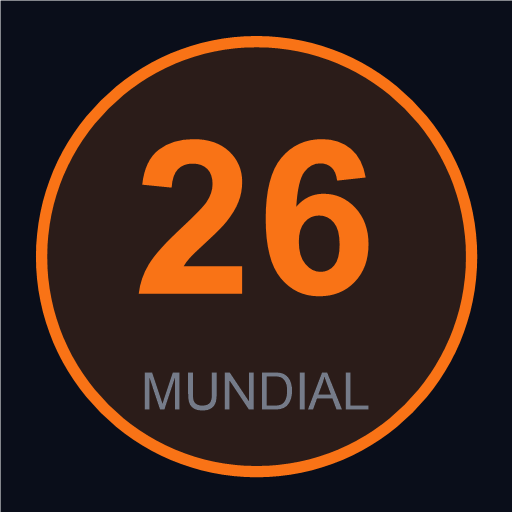
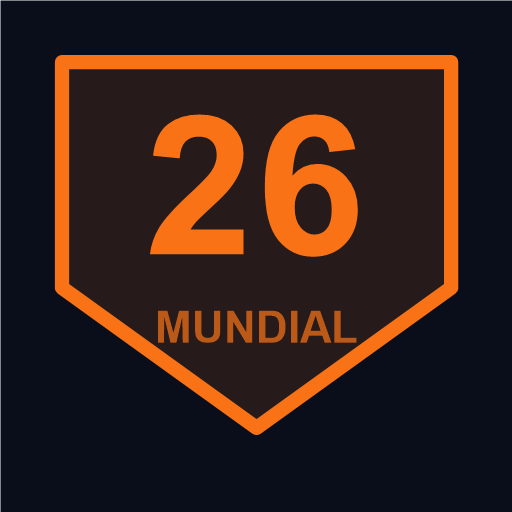
Rediseño intercambio + íconos escudo naranja

diff --git a/index.html b/index.html
@@ -2709,67 +2709,88 @@ function intCalcular() {
   const itemsRec   = intParseLista(txtRec);
   const resDamos = intResumenLista(itemsDamos);
   const resRec   = intResumenLista(itemsRec);
+  const totalDamos = itemsDamos.reduce((s,i)=>s+i.qty, 0);
+  const totalRec   = itemsRec.reduce((s,i)=>s+i.qty, 0);
+  const diff0 = resRec.total - resDamos.total;
+  const col0  = diff0 >= 0 ? '#34d399' : '#f87171';
+  const sign0 = diff0 >= 0 ? '+' : '';
 
-  const dineroMonto = parseFloat((document.getElementById('int-dinero-monto') || {}).value) || 0;
-  const dineroDirEl = document.getElementById('int-dinero-dir');
-  const dineroDir   = dineroDirEl ? dineroDirEl.value : 'recibimos';
-
-  let valorDamos = resDamos.total;
-  let valorRec   = resRec.total;
-  if (dineroMonto > 0) {
-    if (dineroDir === 'recibimos') valorRec += dineroMonto;
-    else valorDamos += dineroMonto;
-  }
-
-  const diff = valorRec - valorDamos;
-
-  const mkList = (items, resum) => {
-    if (!items.length) return '<p style="color:#64748b;font-size:0.85em">Lista vacía</p>';
-    let html = '<ul style="margin:4px 0;padding-left:18px;font-size:0.85em">';
-    for (const {col, ri, qty} of items) {
-      const ci = COLS.indexOf(col);
-      const precio = ci >= 0 ? cotGetPrecio(col, ri) : 0;
-      const nm = sname(ci >= 0 ? ci : 0, ri);
-      html += '<li>' + (qty > 1 ? qty + 'x ' : '') + nm + ' — Q' + precio.toLocaleString() + (qty > 1 ? ' c/u = Q' + (precio * qty).toLocaleString() : '') + '</li>';
-    }
-    html += '</ul>';
-    return html;
+  const CAT_META = {
+    fwc:     {icon:'🏆', color:'#a78bfa'},
+    escudo:  {icon:'🛡', color:'#60a5fa'},
+    foto:    {icon:'👥', color:'#fb923c'},
+    estrella:{icon:'⭐', color:'#fbbf24'},
+    normal:  {icon:'👤', color:'#64748b'},
   };
+  const allCatKeys = [...new Set([...Object.keys(resDamos.cats), ...Object.keys(resRec.cats)])];
+  const catChips = allCatKeys.map(k => {
+    const m = CAT_META[k] || {icon:'·', color:'#64748b'};
+    const d = resDamos.cats[k] || {qty:0};
+    const r = resRec.cats[k]   || {qty:0};
+    return `<span style="display:inline-flex;align-items:center;gap:3px;background:rgba(255,255,255,0.025);border:1px solid rgba(255,255,255,0.06);border-radius:999px;padding:2px 8px;font-size:0.67rem;white-space:nowrap">${m.icon}<b style="color:${m.color}">${d.qty}</b><span style="color:#374151">/</span><b style="color:${m.color}">${r.qty}</b></span>`;
+  }).join('');
 
-  let catHTML = '';
-  const allCats = new Set([...Object.keys(resDamos.cats), ...Object.keys(resRec.cats)]);
-  for (const cat of allCats) {
-    const d = resDamos.cats[cat] || {qty:0,val:0};
-    const r = resRec.cats[cat]   || {qty:0,val:0};
-    catHTML += '<div class="int-chip"><span style="font-weight:600">' + cat + '</span><span style="color:#94a3b8;font-size:0.8em">Damos: ' + d.qty + ' (Q' + d.val.toLocaleString() + ') | Recibimos: ' + r.qty + ' (Q' + r.val.toLocaleString() + ')</span></div>';
-  }
+  const res = document.getElementById('cot-resultado');
+  if (!res) return;
+  res.innerHTML = `
+    <div style="display:flex;flex-wrap:wrap;align-items:center;gap:4px;margin-bottom:10px">
+      ${catChips}
+      <span style="margin-left:auto;font-size:0.67rem;color:#64748b;white-space:nowrap">${totalDamos+totalRec} est.</span>
+    </div>
+    <div style="display:grid;grid-template-columns:1fr 1fr;gap:8px;margin-bottom:8px">
+      <input id="int-dinero-doy" type="number" min="0" step="1" placeholder="Q di" class="neg-inp" style="font-size:0.82rem;padding:7px 12px;border-radius:12px;text-align:center" oninput="intUpdateBalance()">
+      <input id="int-dinero-recibo" type="number" min="0" step="1" placeholder="Q me dan" class="neg-inp" style="font-size:0.82rem;padding:7px 12px;border-radius:12px;text-align:center" oninput="intUpdateBalance()">
+    </div>
+    <div style="display:grid;grid-template-columns:1fr 1fr;gap:8px;margin-bottom:8px">
+      <div style="background:rgba(248,113,113,0.04);border:1px solid rgba(248,113,113,0.12);border-radius:12px;padding:8px 12px;text-align:center">
+        <div style="font-size:0.63rem;color:#64748b;margin-bottom:1px">${totalDamos} estampas</div>
+        <div id="int-vd-display" style="font-size:0.92rem;font-weight:700;color:#f87171">Q${resDamos.total.toFixed(0)}</div>
+      </div>
+      <div style="background:rgba(52,211,153,0.04);border:1px solid rgba(52,211,153,0.12);border-radius:12px;padding:8px 12px;text-align:center">
+        <div style="font-size:0.63rem;color:#64748b;margin-bottom:1px">${totalRec} estampas</div>
+        <div id="int-vr-display" style="font-size:0.92rem;font-weight:700;color:#34d399">Q${resRec.total.toFixed(0)}</div>
+      </div>
+    </div>
+    <div id="int-balance-display" style="display:flex;align-items:center;justify-content:space-between;background:rgba(255,255,255,0.02);border:1px solid rgba(255,255,255,0.05);border-radius:999px;padding:4px 14px;margin-bottom:10px">
+      <span style="font-size:0.67rem;color:#4b5563">Q${resDamos.total.toFixed(0)} → Q${resRec.total.toFixed(0)}</span>
+      <span style="font-size:0.8rem;font-weight:700;color:${col0}">${sign0}Q${Math.abs(diff0).toFixed(0)} ${diff0>=0?'✅':'⚠'}</span>
+    </div>
+    <div style="display:flex;gap:6px;align-items:center;flex-wrap:wrap">
+      <input id="int-cliente" type="text" placeholder="Nombre" class="neg-inp" style="flex:1;min-width:90px;font-size:0.73rem;padding:5px 10px;border-radius:10px">
+      <button class="cot-btn cot-btn-red" style="font-size:0.73rem;padding:5px 12px" onclick="intConfirmar()">✅</button>
+      <button class="cot-btn cot-btn-ghost" style="font-size:0.73rem;padding:5px 10px" onclick="intLimpiar()">✕</button>
+    </div>`;
 
+  window._intPendiente = {itemsDamos, itemsRec, resDamosTotal: resDamos.total, resRecTotal: resRec.total};
+}
+
+function intUpdateBalance() {
+  if (!window._intPendiente) return;
+  const {resDamosTotal, resRecTotal} = window._intPendiente;
+  const doy    = parseFloat(document.getElementById('int-dinero-doy')?.value) || 0;
+  const recibo = parseFloat(document.getElementById('int-dinero-recibo')?.value) || 0;
+  const vD = resDamosTotal + doy;
+  const vR = resRecTotal + recibo;
+  const diff = vR - vD;
   const color = diff >= 0 ? '#34d399' : '#f87171';
   const sign  = diff >= 0 ? '+' : '';
-
-  const res = document.getElementById('int-resultado');
-  if (!res) return;
-  res.innerHTML =
-    '<div class="int-balance-row" style="margin-bottom:10px;gap:8px">' +
-      '<div class="cot-card" style="flex:1"><h4 style="color:#f87171;margin:0 0 6px">📤 Damos — Q' + resDamos.total.toLocaleString() + (dineroMonto>0&&dineroDir==='damos'?' + Q'+dineroMonto.toLocaleString()+' efectivo':'') + '</h4>' + mkList(itemsDamos) + '</div>' +
-      '<div class="cot-card" style="flex:1"><h4 style="color:#34d399;margin:0 0 6px">📥 Recibimos — Q' + resRec.total.toLocaleString() + (dineroMonto>0&&dineroDir==='recibimos'?' + Q'+dineroMonto.toLocaleString()+' efectivo':'') + '</h4>' + mkList(itemsRec) + '</div>' +
-    '</div>' +
-    (catHTML ? '<div style="margin-bottom:10px"><strong style="font-size:0.85em;color:#94a3b8">Desglose por categoría:</strong><div style="display:flex;flex-wrap:wrap;gap:6px;margin-top:6px">' + catHTML + '</div></div>' : '') +
-    '<div class="int-balance-row" style="padding:12px 16px;background:#0f172a;border-radius:8px;align-items:center;border:1px solid #1e2435">' +
-      '<span style="color:#94a3b8">Balance del intercambio:</span>' +
-      '<span style="font-size:1.25em;font-weight:700;color:' + color + '">' + sign + 'Q' + Math.abs(diff).toLocaleString() + (diff >= 0 ? ' a nuestro favor ✅' : ' en contra ⚠') + '</span>' +
-    '</div>' +
-    '<div style="display:flex;gap:8px;margin-top:12px">' +
-      '<button class="cot-btn cot-btn-red" onclick="intConfirmar()">✅ Confirmar intercambio</button>' +
-      '<button class="cot-btn cot-btn-ghost" onclick="intLimpiar()">🗑 Limpiar</button>' +
-    '</div>';
-
-  window._intPendiente = {itemsDamos, itemsRec, valorDamos, valorRec, diff, dineroMonto, dineroDir};
+  const vdEl  = document.getElementById('int-vd-display');
+  const vrEl  = document.getElementById('int-vr-display');
+  const balEl = document.getElementById('int-balance-display');
+  if (vdEl) vdEl.textContent = 'Q' + vD.toFixed(0);
+  if (vrEl) vrEl.textContent = 'Q' + vR.toFixed(0);
+  if (balEl) balEl.innerHTML = `<span style="font-size:0.67rem;color:#4b5563">Q${vD.toFixed(0)} → Q${vR.toFixed(0)}</span><span style="font-size:0.8rem;font-weight:700;color:${color}">${sign}Q${Math.abs(diff).toFixed(0)} ${diff>=0?'✅':'⚠'}</span>`;
 }
 
 function intConfirmar() {
   if (!window._intPendiente) { alert('Primero calcula el intercambio'); return; }
-  const {itemsDamos, itemsRec, valorDamos, valorRec, diff, dineroMonto, dineroDir} = window._intPendiente;
+  const cliente = document.getElementById('int-cliente')?.value.trim() || '';
+  const doy    = parseFloat(document.getElementById('int-dinero-doy')?.value) || 0;
+  const recibo = parseFloat(document.getElementById('int-dinero-recibo')?.value) || 0;
+  const {itemsDamos, itemsRec, resDamosTotal, resRecTotal} = window._intPendiente;
+  const valorDamos = resDamosTotal + doy;
+  const valorRec   = resRecTotal + recibo;
+  const diff = valorRec - valorDamos;
 
   for (const {col, ri, qty} of itemsDamos) {
     const ci = COLS.indexOf(col);
@@ -2784,28 +2805,25 @@ function intConfirmar() {
     data[ri][ci] = (data[ri][ci] || 0) + qty;
   }
 
-  const nota = 'Intercambio: damos Q' + valorDamos.toLocaleString() + ' | recibimos Q' + valorRec.toLocaleString() +
-    (dineroMonto > 0 ? ' + Q' + dineroMonto.toLocaleString() + ' efectivo ' + (dineroDir === 'recibimos' ? 'recibido' : 'dado') : '');
+  const nota = 'Intercambio' + (cliente ? ' — ' + cliente : '') +
+    ': damos Q' + valorDamos.toFixed(0) + ' | recibimos Q' + valorRec.toFixed(0) +
+    (doy > 0 ? ' (di Q' + doy.toFixed(0) + ' ef.)' : '') +
+    (recibo > 0 ? ' (recibí Q' + recibo.toFixed(0) + ' ef.)' : '');
 
   if (!negData.txs) negData.txs = [];
   negData.txs.unshift({cat:'intercambio', ts:Date.now(), nota, valorDamos, valorRec, diff});
 
-  saveData();
-  buildTable();
-  renderNeg();
-  intLimpiar();
+  saveLocal(); buildAll(); renderNeg(); intLimpiar();
   alert('✅ Intercambio registrado y inventario actualizado');
 }
 
 function intLimpiar() {
   const d = document.getElementById('int-lista-damos');
   const r = document.getElementById('int-lista-recibimos');
-  const res = document.getElementById('int-resultado');
-  const cash = document.getElementById('int-dinero-monto');
   if (d) d.value = '';
   if (r) r.value = '';
-  if (res) res.innerHTML = '<div class="cot-empty">Pega las listas y presiona Calcular intercambio</div>';
-  if (cash) cash.value = '0';
+  const cotRes = document.getElementById('cot-resultado');
+  if (cotRes) cotRes.innerHTML = '<div class="cot-empty">🧾 Pega una lista y presiona <strong>Cotizar</strong></div>';
   window._intPendiente = null;
 }
 
@@ -2936,23 +2954,10 @@ if ('serviceWorker' in navigator) {
           <textarea class="cot-textarea" id="int-lista-recibimos" placeholder="ESP 15&#10;FRA 3&#10;..."></textarea>
         </div>
       </div>
-      <div class="cot-card" style="margin-bottom:14px">
-        <h3>💵 Venta — dinero adicional</h3>
-        <div style="display:flex;align-items:center;gap:10px;margin-top:8px">
-          <select id="int-dinero-dir" style="display:none"><option value="recibimos">recibimos</option></select>
-          <span style="font-size:0.8rem;color:#64748b">Recibimos</span>
-          <div style="display:flex;align-items:center;background:#0f172a;border:1px solid #374151;border-radius:5px;overflow:hidden">
-            <span style="padding:0 8px;color:#64748b;background:#1e2435;border-right:1px solid #374151;font-size:0.8rem;line-height:34px">Q</span>
-            <input id="int-dinero-monto" type="number" min="0" step="1" value="0" style="width:90px;background:transparent;border:none;color:#e2e8f0;font-size:0.85rem;padding:6px 10px;outline:none;font-family:inherit">
-          </div>
-          <span style="font-size:0.75rem;color:#4b5563">adicionales (0 si es estampa por estampa)</span>
-        </div>
+      <div style="display:flex;gap:10px;flex-wrap:wrap;margin-bottom:4px">
+        <button class="cot-btn cot-btn-red" onclick="intCalcular()">⚡ Calcular</button>
+        <button class="cot-btn cot-btn-ghost" onclick="intLimpiar()">✕</button>
       </div>
-      <div style="display:flex;gap:10px;flex-wrap:wrap;margin-bottom:14px">
-        <button class="cot-btn cot-btn-red" onclick="intCalcular()">⚡ Calcular intercambio</button>
-        <button class="cot-btn cot-btn-ghost" onclick="intLimpiar()">✕ Limpiar</button>
-      </div>
-      <div id="int-resultado"><div class="cot-empty">Pega las listas y presiona Calcular intercambio</div></div>
     </div>
   </div>
 
